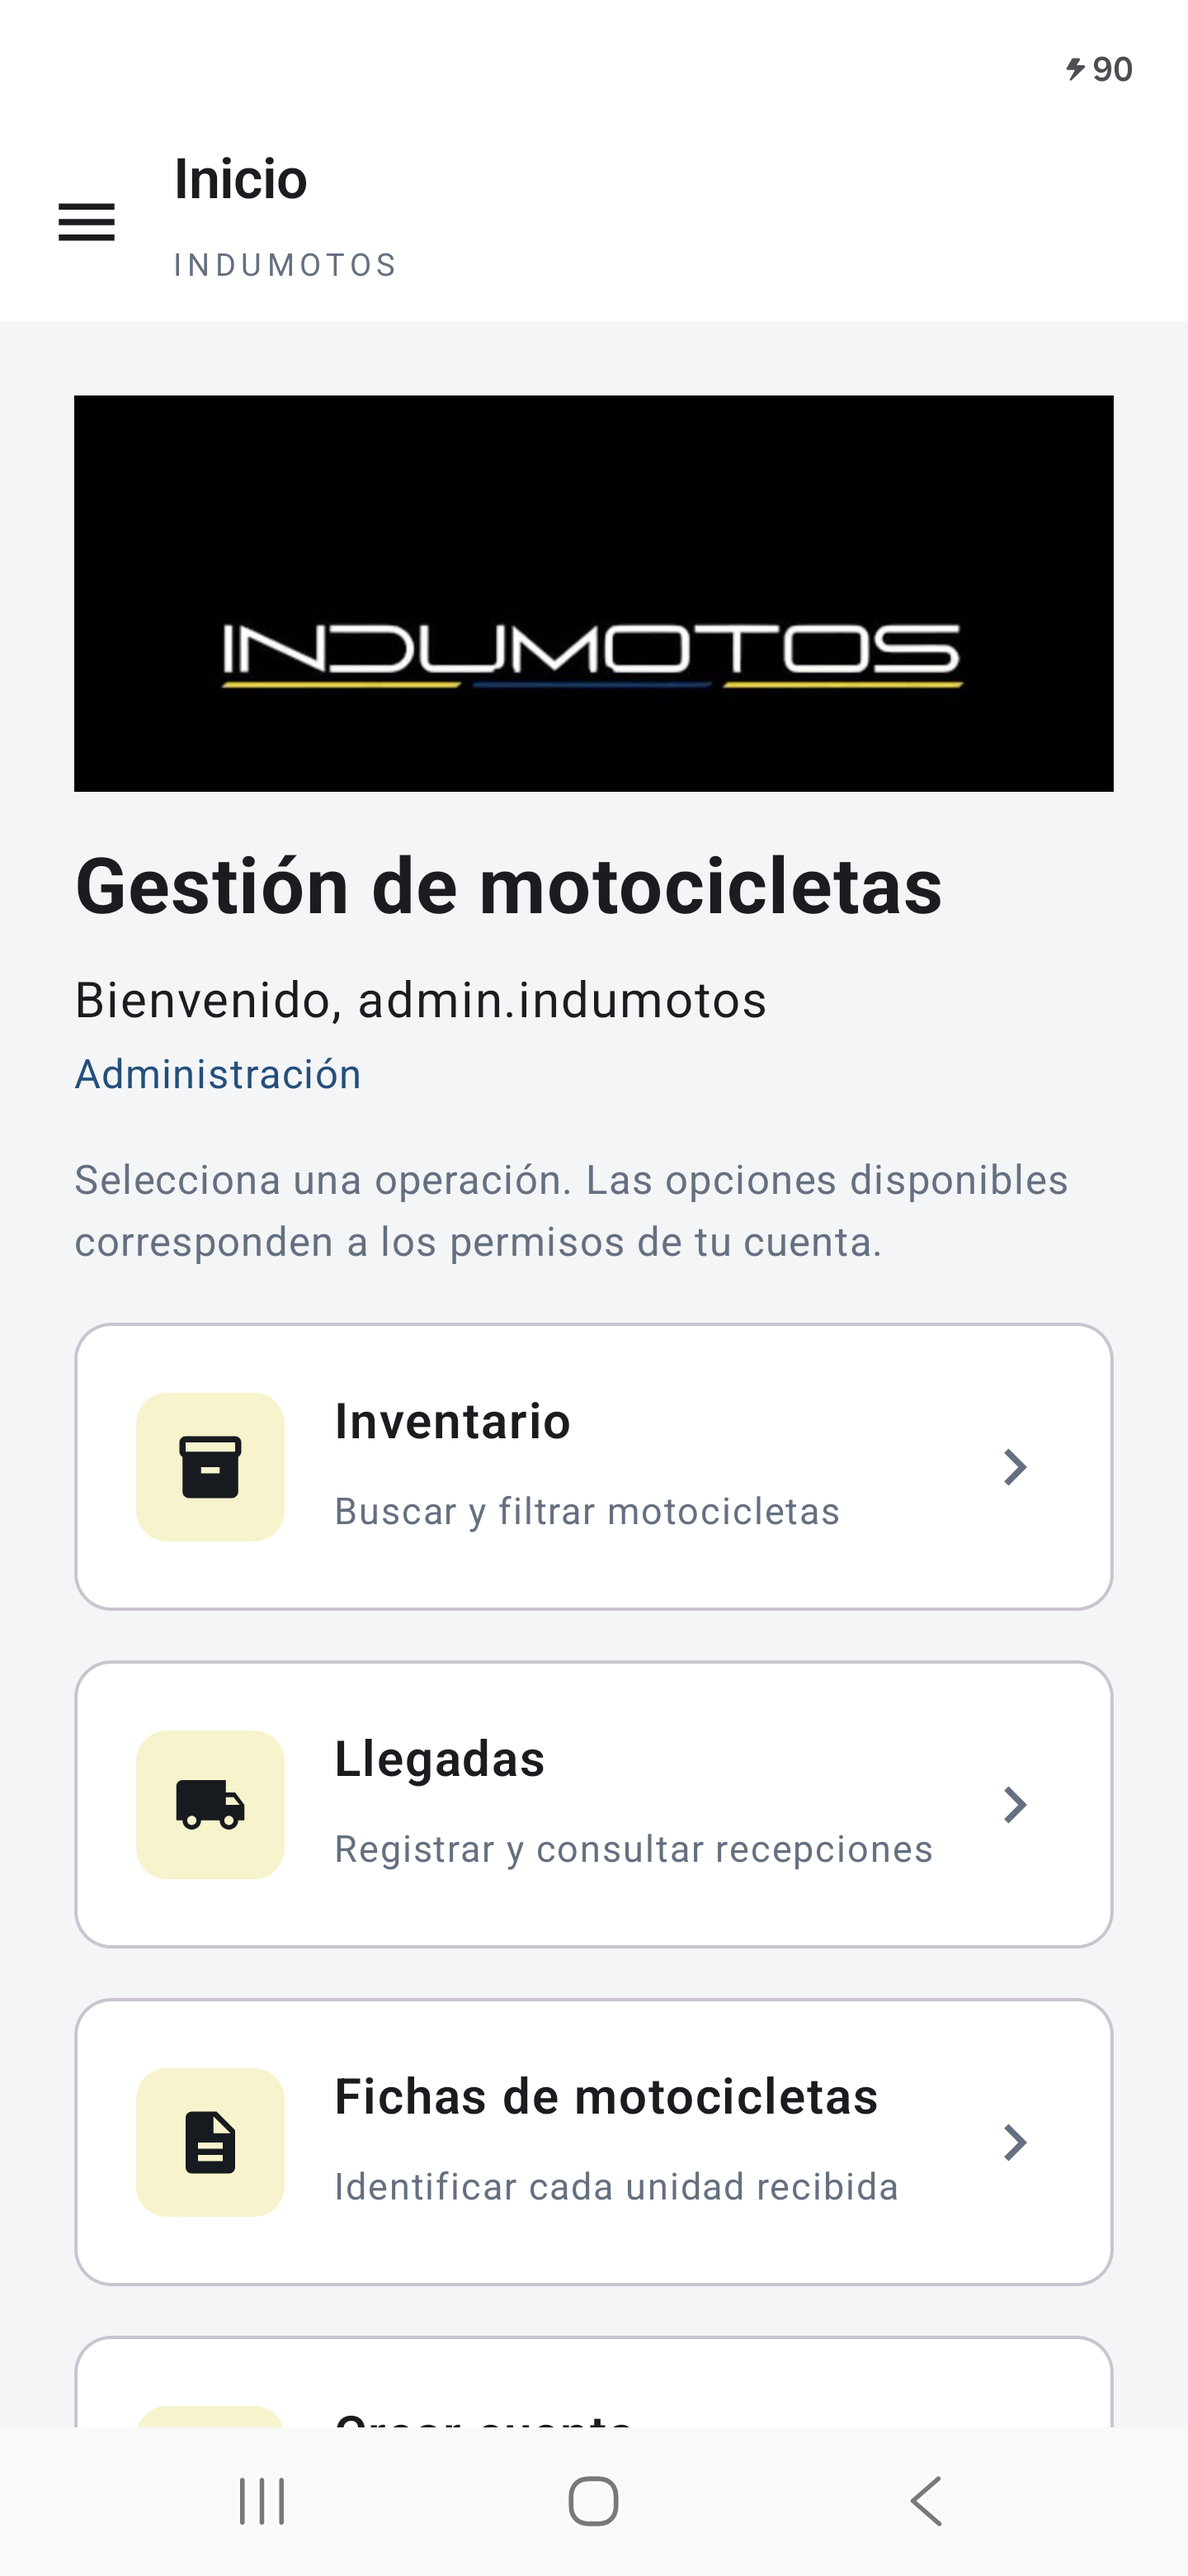
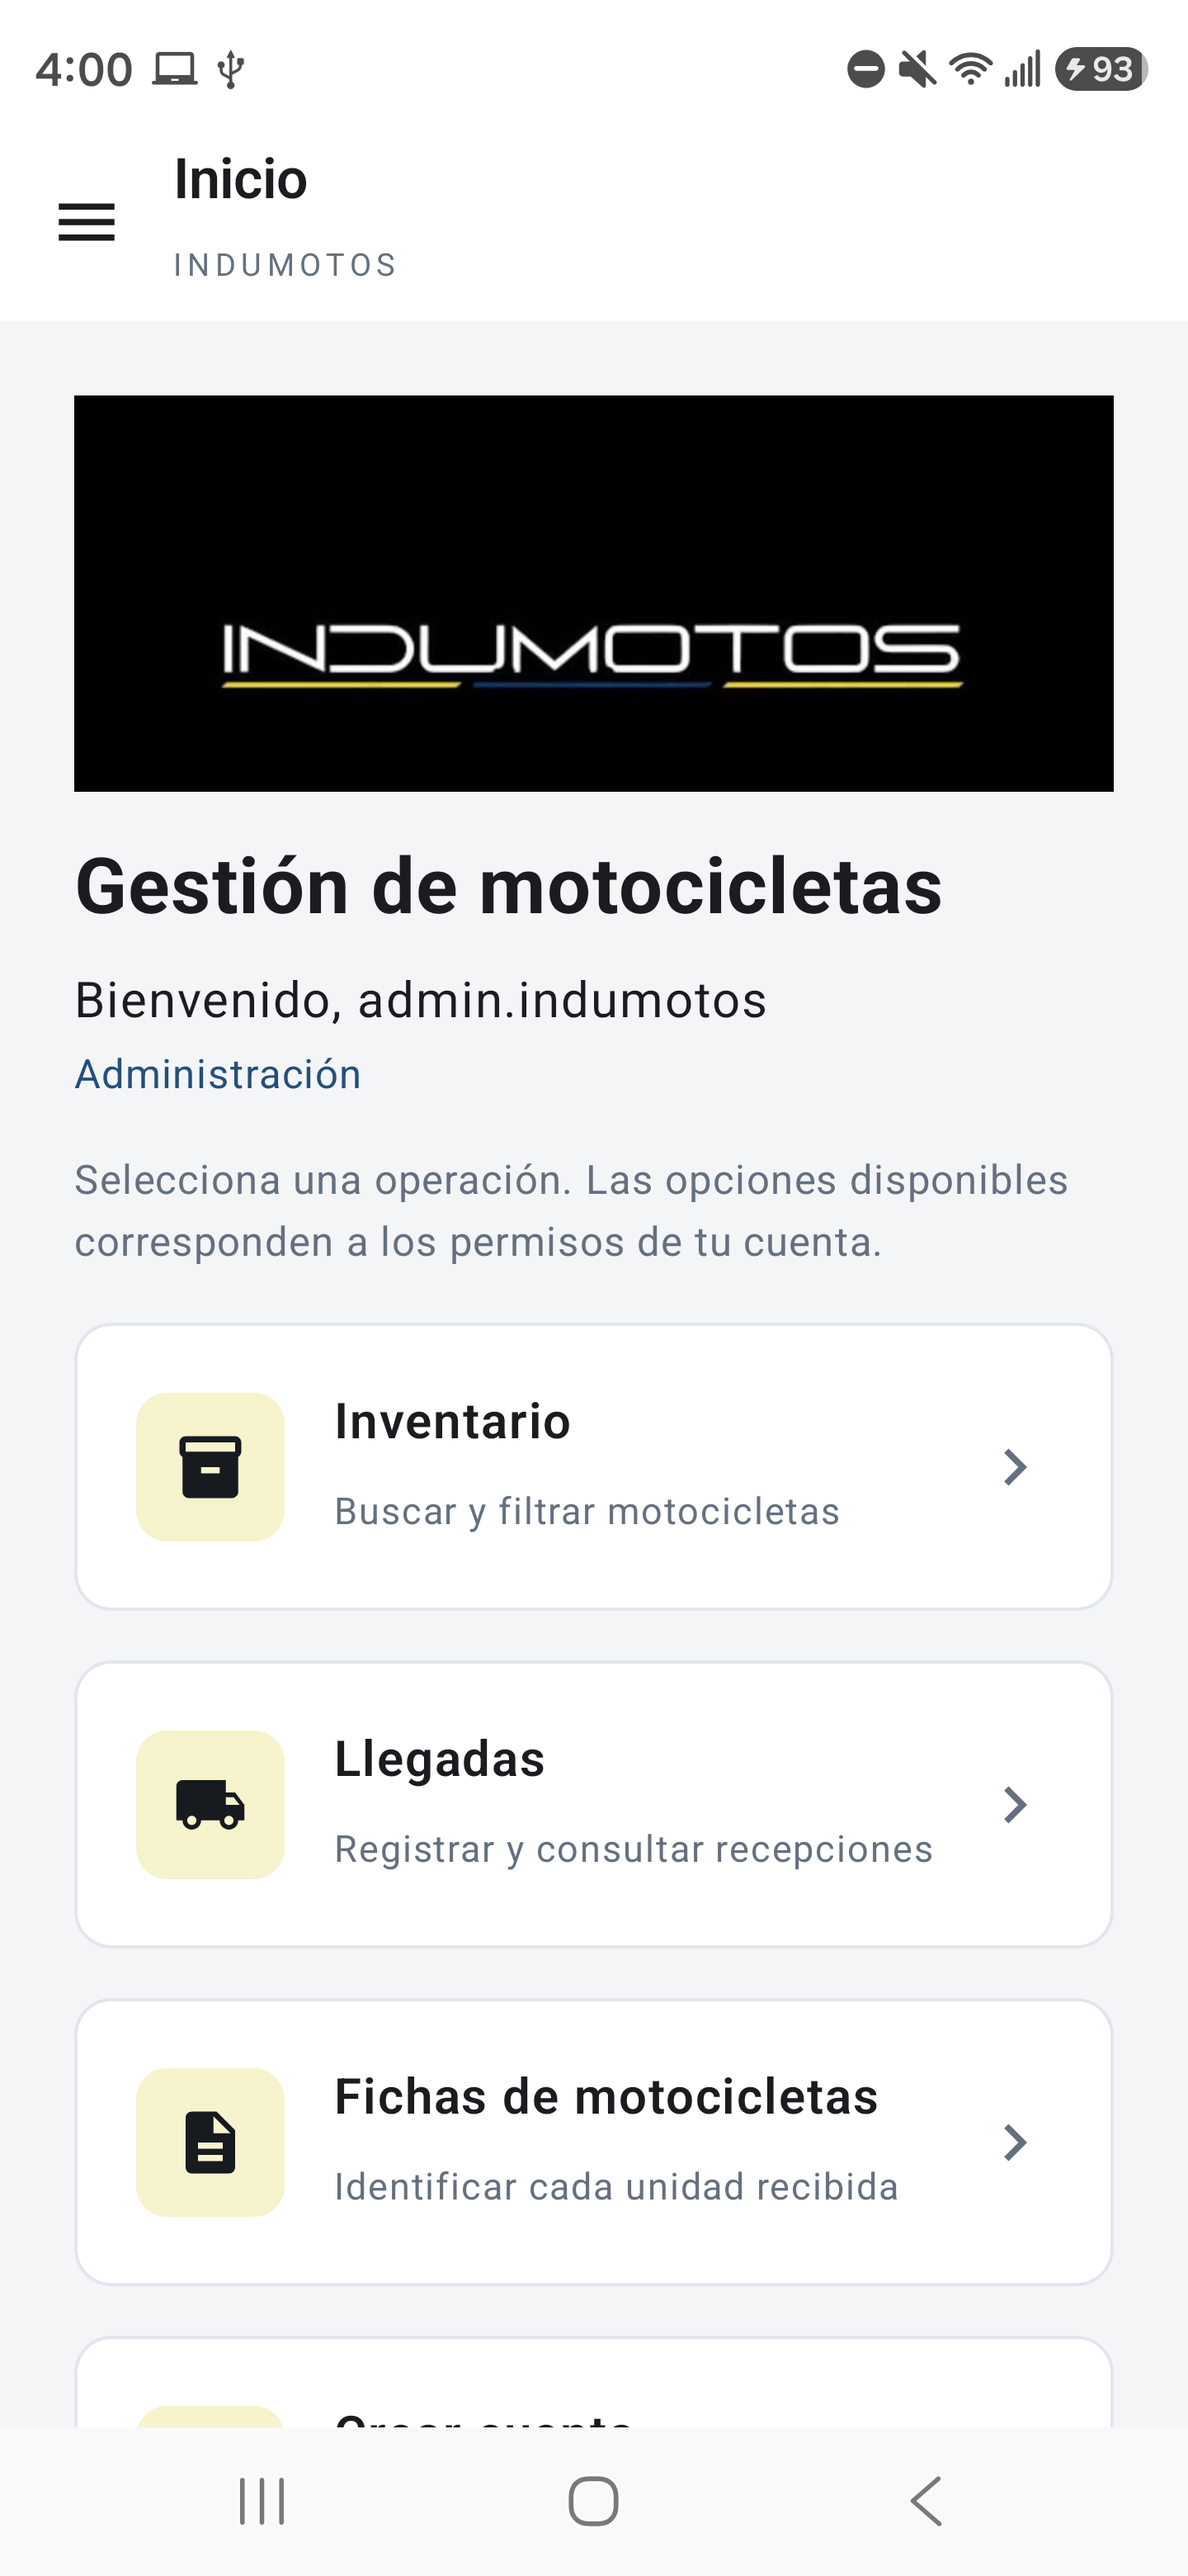
docs: registrar APK corregido y capturas verificadas en Samsung

diff --git a/docs/INTEGRACION-SPRINT1.md b/docs/INTEGRACION-SPRINT1.md
@@ -59,3 +59,9 @@ El certificado del APK es **Android Debug**, no una clave de distribución. El J
 6. Validar iOS en macOS/Xcode; no se generó IPA en Windows.
 
 PharmaMobile y PharmaMobile-Backend no se modificaron. Sus credenciales, datos y artefactos se mantienen separados.
+
+## Cierre de la revisión inicial en dispositivo
+
+Se detectó y corrigió IND-AS-001: cierre al iniciar en Samsung/API 37 por solicitar `Window.getInsetsController()` antes de crear la vista. Solución: configurar las barras después de `setContent`, desde `window.decorView.post`. El APK corregido tuvo arranque frío correcto y se volvió a comprobar login, inicio, menú e inventario en el Samsung. Las cuatro capturas se actualizaron con esta ejecución; la primera captura incorrecta del escritorio del teléfono quedó sustituida y no es evidencia del login.
+
+El cambio de código está en `3de365b`; trazabilidad exacta de APK, tamaño, hash y certificado en `build-sprint1.json`. APK local `entrega/Indumotos-AS-Sprint1-debug.apk`, 23 270 113 bytes. La comprobación no certifica registros de llegada/ficha ni cambios de permisos: esas operaciones continúan pendientes de validación manual.
